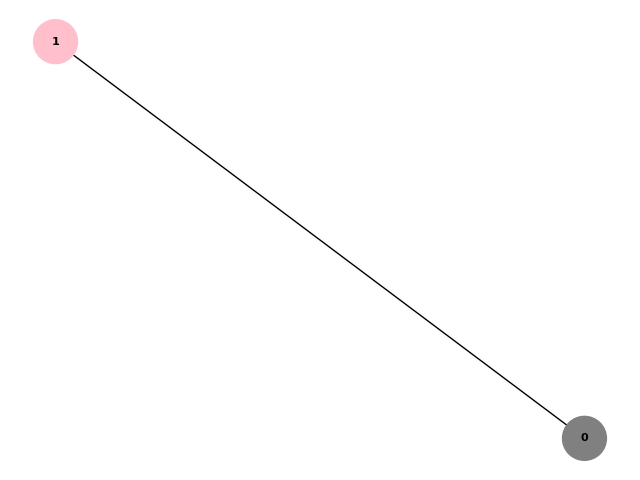
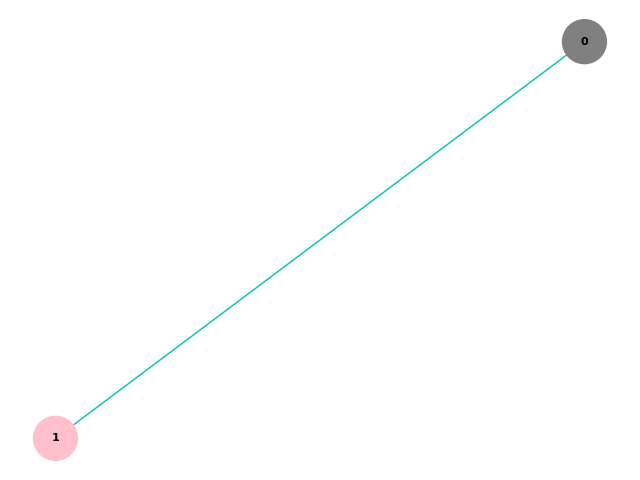
fixed edge color bug

diff --git a/Allocation.py b/Allocation.py
@@ -16,17 +16,25 @@ class W_maximal_allocation:
         self.w = w  # agents' weights
         self.A = self.get_w_maximal_allocation(w)  # the allocation
         self.item_pairs = {}  # all the exchangeable pairs whose replacement will benefit the jealous agents
-        self.init_envy_graph()
+        self.init_envy_graphs()
 
 
-    def init_envy_graph(self):
+    def init_envy_graphs(self):
+        """
+        Create an empty envy graph & EF1 graph, which is a graph with nodes that represent the agents,
+        and there is a directed edge from i to j iff i envious j in more than one item / in more than
+        one good and one chore in the mixed instances.
+        """
         self.fig = plt.figure(figsize=(8,6))
         self.envy_graph = nx.DiGraph()
+        self.EF1_graph = nx.DiGraph()
         # add nodes representing the agents
         for i in range(self.I.n):
             self.envy_graph.add_node(i, name=i)
+            self.EF1_graph.add_node(i, name=i)
         # self.envy_graph.add_nodes_from(np.arange(self.I.n))  
         self.save_envy_graph()
+        self.save_EF1_graph()
 
 
     def save_Gw(self, G, V1, V2):
@@ -116,7 +124,14 @@ class W_maximal_allocation:
         plt.close()
 
 
-    def update_exchangeable_items(self, print=True):
+    def save_EF1_graph(self):
+        pos = nx.spring_layout(self.EF1_graph)
+        nx.draw(self.EF1_graph, pos, node_size=1000, node_color='orange', font_size=8, font_weight='bold', with_labels=True)
+        plt.savefig("plots/EF1Graph.png", format="PNG")
+        plt.close()
+
+
+    def update_exchangeable_items(self, to_print=True):
         """
         Create a set of exchangeable pairs whose replacement will benefit the envy agents' utilities.
         It is actually a dictionary in form {
@@ -133,14 +148,23 @@ class W_maximal_allocation:
             ujAj_lst = utility_bundle(j, self.A[j], self.I.utilities)
             ujAi_lst = utility_bundle(j, self.A[i], self.I.utilities)
             if not isEF_two(sum(ujAj_lst), sum(ujAi_lst)):  # j envious i
-                # find all the exchangeable pairs that can benefit him
-                if print:
+                # find all the exchangeable pairs that can benefit j
+                if to_print:
                     print(j, "envious ", i)
                 self.add_exchangeable_pairs_two(i, j)
                 self.envy_graph.add_edge(j, i)  # a directed edge from j to i, that represents that j envious i
-                if print:
+                if to_print:
                     print("updated exchangeable pairs list:\n", self.item_pairs)
                 self.save_envy_graph()
+
+            # update the EF1 graph
+            if self.I.type == 'same-sign':
+                if not isEF1_two(sum(ujAj_lst), sum(ujAi_lst), min(ujAj_lst), max(ujAi_lst)):
+                    self.EF1_graph.add_edge(j, i)  # add a directed edge from j to i
+            elif self.I.type == 'mixed':
+                if not isEF11_two(sum(ujAj_lst), sum(ujAi_lst), min(ujAj_lst), max(ujAi_lst)):
+                    self.EF1_graph.add_edge(j, i)  # add a directed edge from j to i
+            self.save_EF1_graph()
 
 
     def get_max_r_pair(self):
@@ -194,9 +218,11 @@ class W_maximal_allocation:
         # empty item-pairs list
         self.item_pairs = {}
 
-        # delete edges from the envy graph
-        edges = list(self.envy_graph.edges)  # all the edges in the current envy graph
+        # delete edges from the envy graphs
+        edges = list(self.envy_graph.edges)  # all the edges in the current envy_graph
         self.envy_graph.remove_edges_from(edges)
+        edges = list(self.EF1_graph.edges)  # all the edges in the current EF1_graph
+        self.EF1_graph.remove_edges_from(edges)
 
 
     def is_w_maximal(self):

diff --git a/main.py b/main.py
@@ -20,13 +20,13 @@ def update_allocations_graph(key):
     return value, flag
 
 
-def get_edge_color(envy_graph):
+def get_edge_color(EF1_graph):
     """
-    :param envy_graph: the envy graph of some allocation. 
+    :param EF1_graph: the EF1 graph of some allocation. 
                         Has to be a DAG graph, since all allocations are w-maximal.
-    :return: an edge color determines by a topological ordering on the envy graph, and color_dict.
+    :return: an edge color determines by a topological ordering on the EF1 graph, and color_dict.
     """
-    topological = list(nx.all_topological_sorts(envy_graph))
+    topological = list(nx.all_topological_sorts(EF1_graph))
     colors = []
     for order in topological:
         reversed_order = list(reversed(order))
@@ -44,10 +44,10 @@ def get_common(a, b):
     b_set = set(b)
      
     # check length
-    intersection = a_set.intersection(b_set)
+    intersection = list(a_set.intersection(b_set))
     if len(intersection) > 0:
         return(intersection[0])  # return the first common element
-    else:
+    else:  # no common element
         return 'k'
 
 
@@ -85,14 +85,14 @@ def algorithm1(I, stopOnEF1=True):
     flag = True
     while flag:  # while we discover new allocations
         if not A.is_EF1() or not stopOnEF1:
-            colors_before = get_edge_color(A.envy_graph)  # the possible colors for the node of the current allocation (before the exchange)
+            colors_before = get_edge_color(A.EF1_graph)  # the possible colors for the node of the current allocation (before the exchange)
             A.exchange_pair(i, j, exchangeable_pair)
             print("exchange ", exchangeable_pair, " between ", i, " and ", j)
             print("\nupdated A = ", A.A)
             key = ' '.join(map(str, A.A))
             value, flag = update_allocations_graph(key)
             A.update_exchangeable_items()
-            colors_after = get_edge_color(A.envy_graph)  # possible colors after the exchange
+            colors_after = get_edge_color(A.EF1_graph)  # possible colors after the exchange
             edge_color = get_common(colors_before, colors_after)  # the common edge color before and after the exchange!
             print("colors_before: ", colors_before)
             print("colors_after: ", colors_after)

diff --git a/script.py b/script.py
@@ -39,16 +39,19 @@ def run(n):
     capacities = tuple(capacities)
     I = Instance(utilities, capacities, n, type='mixed')
     ans = algorithm1(I)
-    if ans == None:  # something is not working well
+    if ans == None:  # something is not working well  -->  a counterexample was probably found
         print(num_categories)
         print(utilities)
         print(capacities)
+    return ans
 
 
 def main():
-    for i in range(100):
+    for i in range(200):
         print(i)
-        run(3)
+        ans = run(3)
+        if ans == None:
+            break  # stop searching
 
 
 if __name__ == '__main__':

diff --git a/base_algorithm.py b/base_algorithm.py
@@ -39,7 +39,7 @@ def algorithm1(I):
         return A
         
     # Step 2: Build a set of item-pairs whose replacement increases the envy-agents' utilities:
-    A.update_exchangeable_items(print=False)
+    A.update_exchangeable_items(to_print=False)
     i, j, exchangeable_pair = A.get_max_r_pair()
 
     # Step 3: Switch items in order until an EF1 allocation is found
